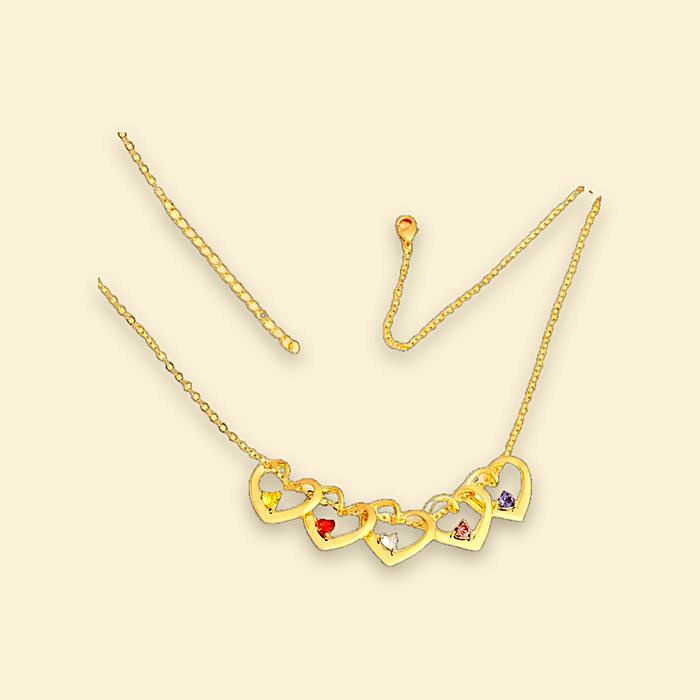
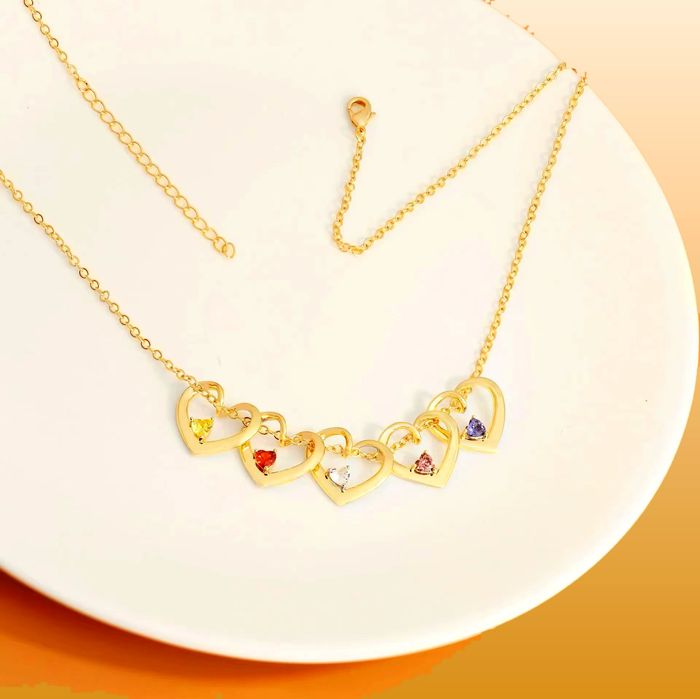
Revert to the original supplier photos
The uniform-background + sparkle-enhancement treatment didn't land well
visually, so restore the original photos (each with its own real
background) and the full image lists, undoing the two prior photo
commits. Prices and color swatches are untouched.

Claude-Session: https://claude.ai/code/session_01TWRoWDqYTFvtdR2NR5MWes

diff --git a/server/products-data.js b/server/products-data.js
@@ -1017,9 +1017,9 @@ const PRODUCTS = [
   /* ===== BIJOUX & ACCESSOIRES ===== */
   {
     id: 'bj1', category: 'bijoux', universe: 'collier', age: 'all',
-    price: 19.99, oldPrice: null, icon: ICONS.collier, images: ['images/products/bj1-1.jpg', 'images/products/bj1-3.jpg', 'images/products/bj1-4.jpg', 'images/products/bj1-5.jpg'], bg: '#f2ead6',
+    price: 19.99, oldPrice: null, icon: ICONS.collier, images: ['images/products/bj1-1.jpg', 'images/products/bj1-2.jpg', 'images/products/bj1-3.jpg', 'images/products/bj1-4.jpg', 'images/products/bj1-5.jpg'], bg: '#f2ead6',
     imagesByColor: {
-      '#d4af37': ['images/products/bj1-1.jpg', 'images/products/bj1-3.jpg', 'images/products/bj1-4.jpg', 'images/products/bj1-5.jpg'],
+      '#d4af37': ['images/products/bj1-1.jpg', 'images/products/bj1-2.jpg', 'images/products/bj1-3.jpg', 'images/products/bj1-4.jpg', 'images/products/bj1-5.jpg'],
       '#e8b4a8': ['images/products/bj2-6.jpg']
     },
     colors: ['#d4af37', '#e8b4a8'], sale: false,
@@ -1111,7 +1111,7 @@ const PRODUCTS = [
   },
   {
     id: 'bj3', category: 'bijoux', universe: 'collier', age: 'all',
-    price: 9.99, oldPrice: null, icon: ICONS.collier, images: ['images/products/bj3-1.jpg', 'images/products/bj3-3.jpg'], bg: '#f2ead6',
+    price: 9.99, oldPrice: null, icon: ICONS.collier, images: ['images/products/bj3-1.jpg', 'images/products/bj3-2.jpg', 'images/products/bj3-3.jpg'], bg: '#f2ead6',
     colors: ['#d4af37'], sale: false,
     name: 'Collier Lune & Étoile serties de zircon', name_en: 'Moon & Star Zircon Necklace',
     ageLabel: 'Bijoux', ageLabel_en: 'Jewelry',
